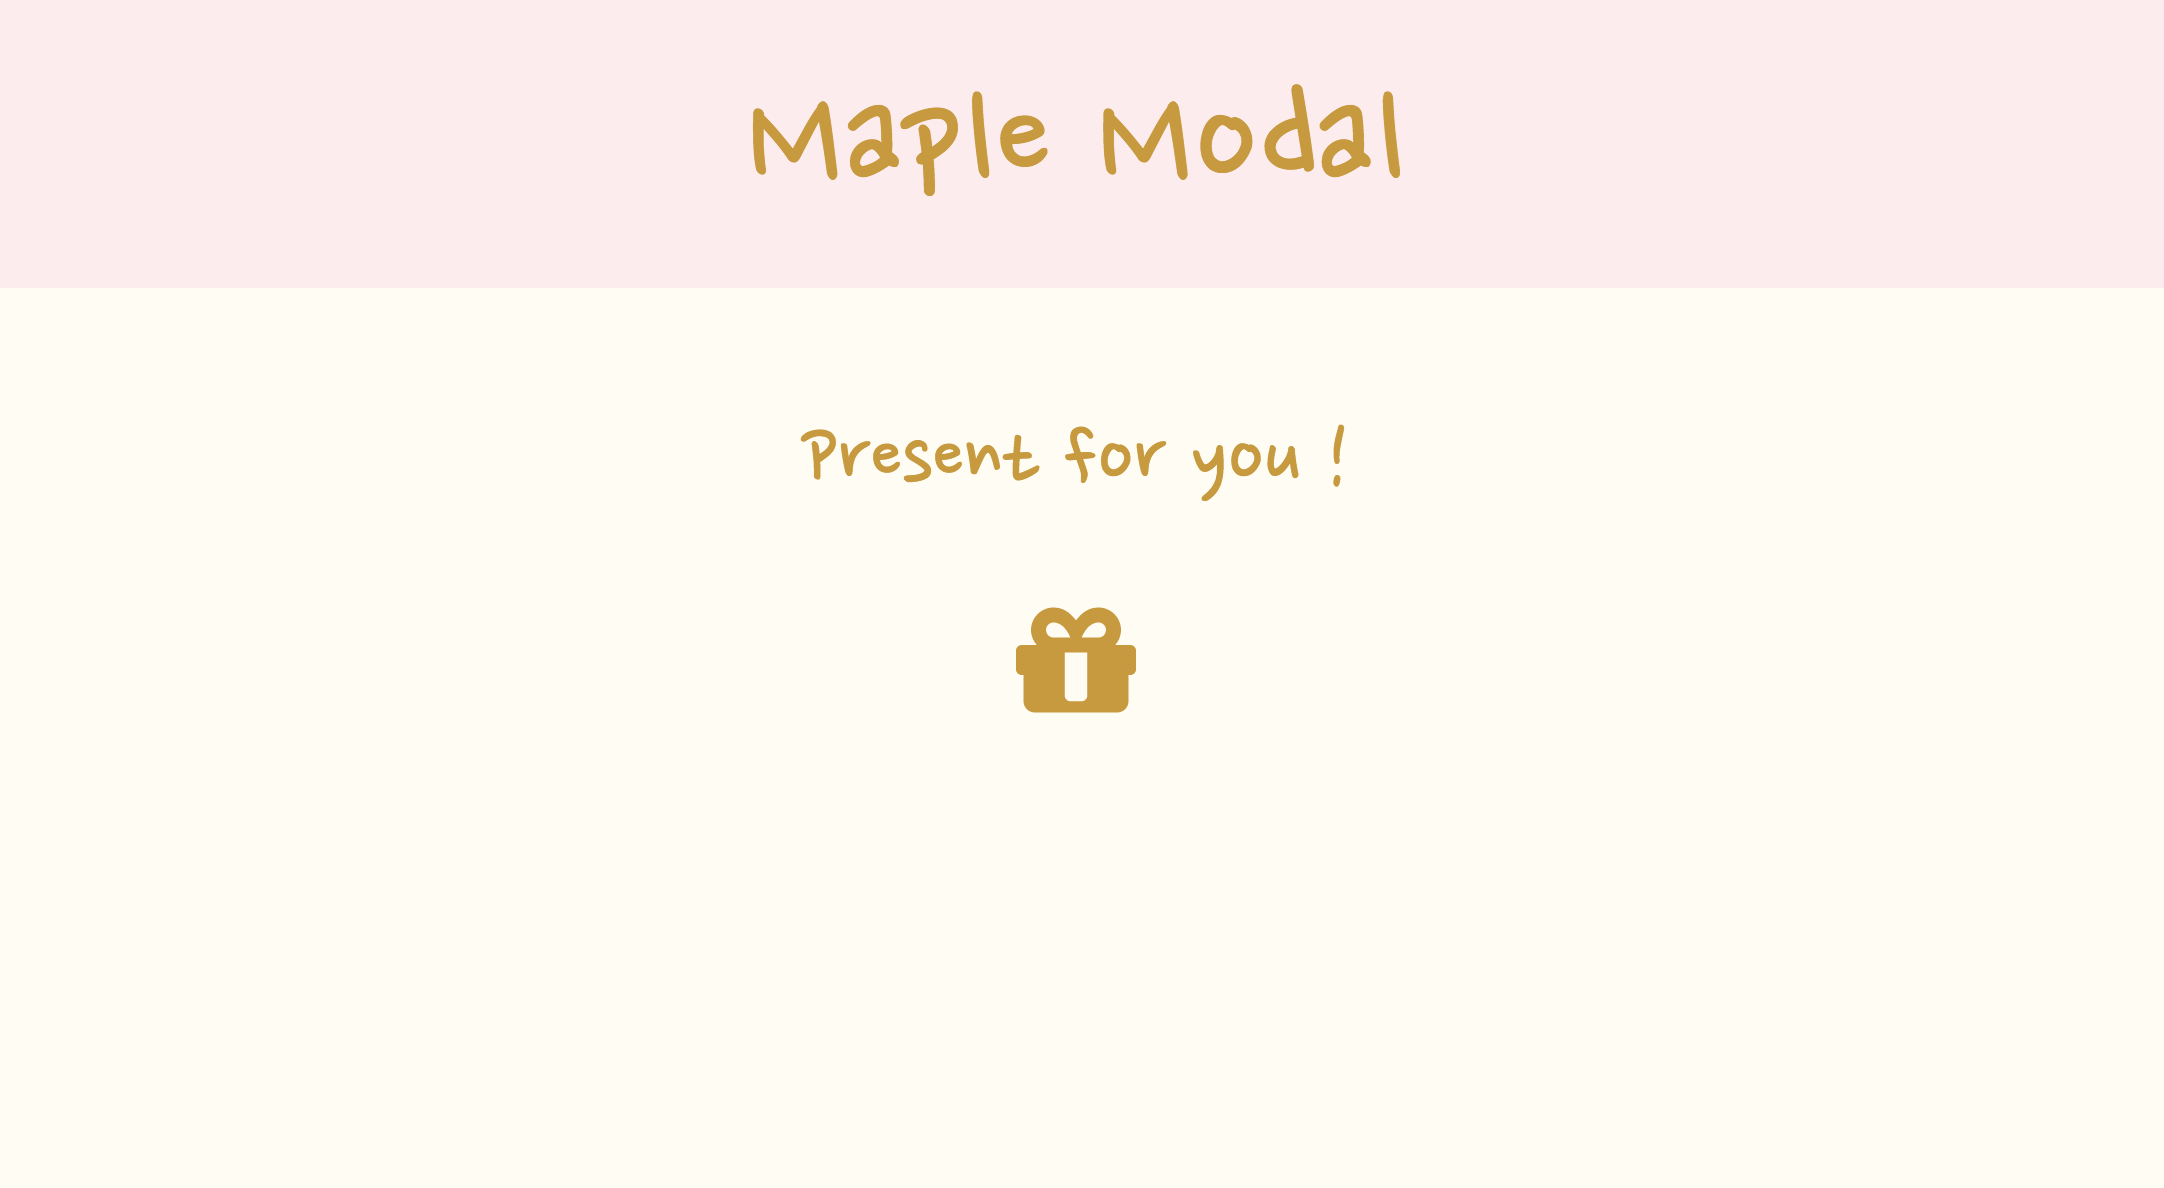
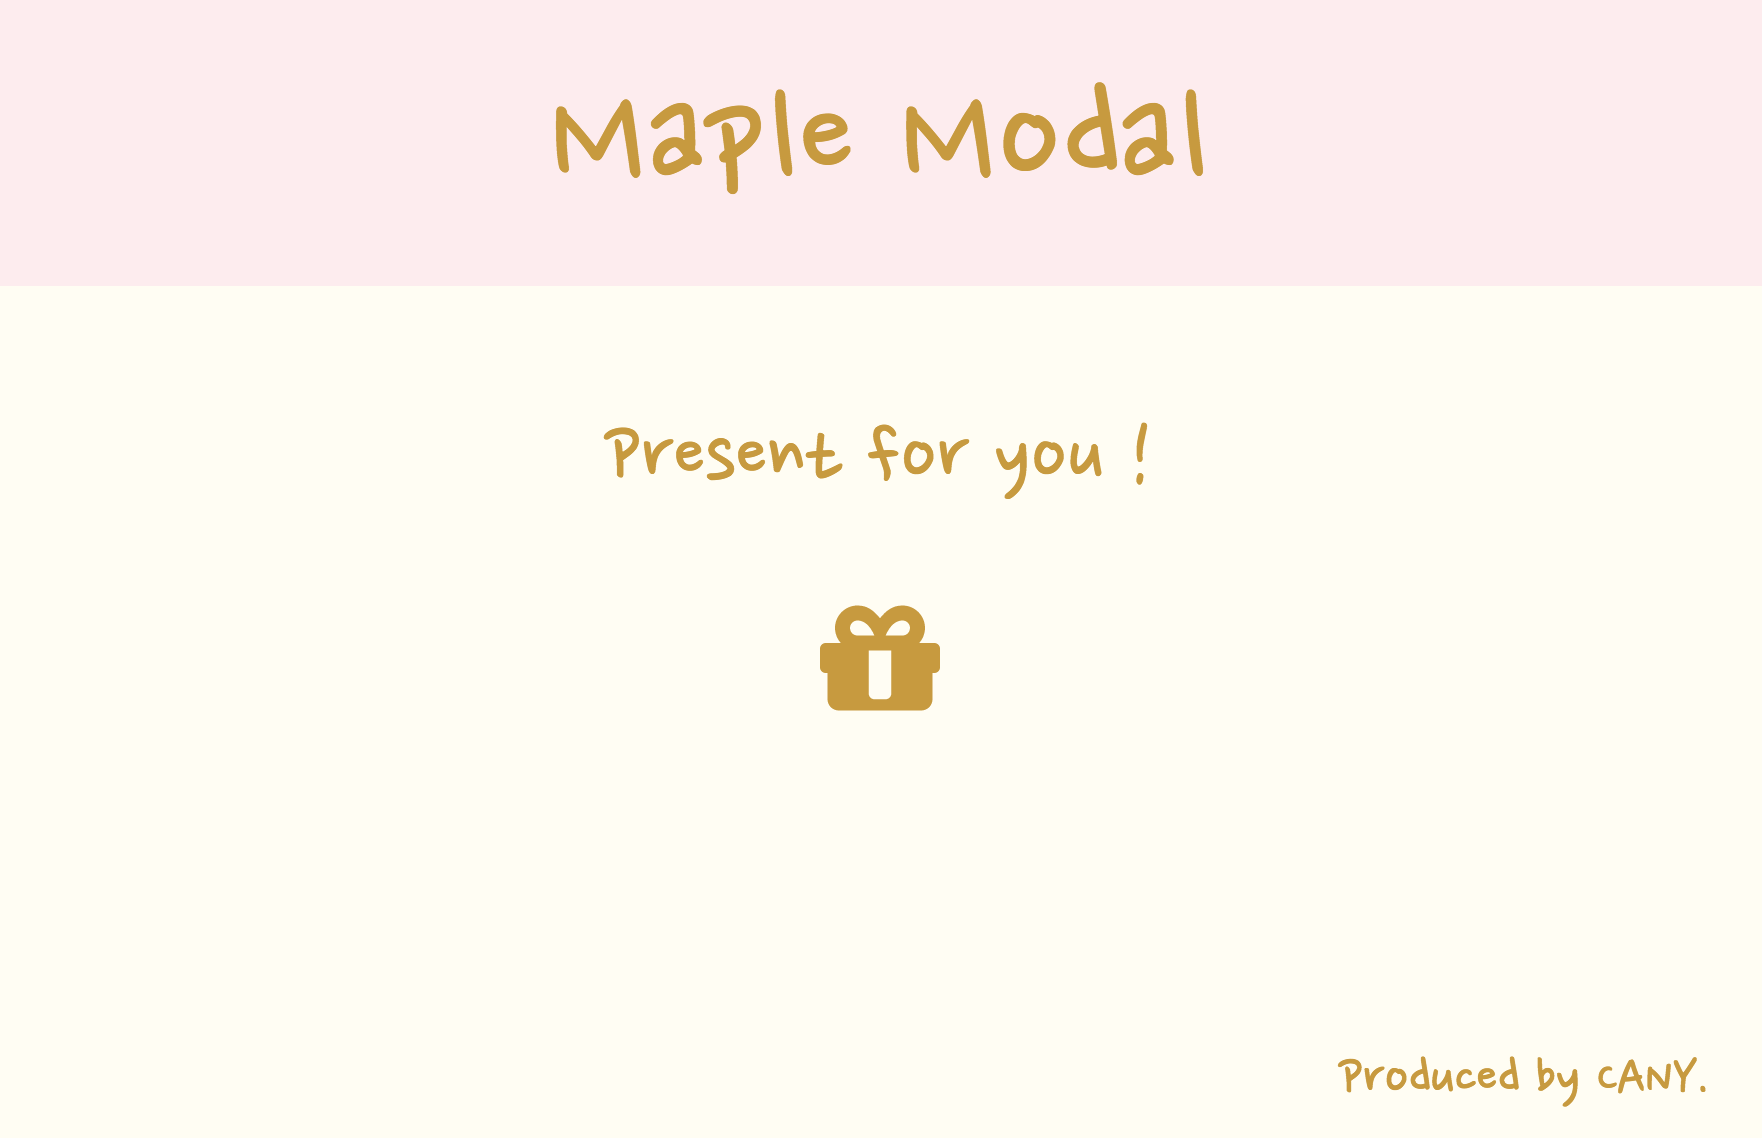
コメント追加

diff --git a/works/MapleLab/demos/Modal/style.css b/works/MapleLab/demos/Modal/style.css
@@ -139,8 +139,9 @@ body.is-locked {
 /*---/header----*/
 
 .present {
-	height: 400px;
-	padding: 50px 0;
+	position: relative;
+	height: 350px;
+	padding: 50px;
 	background-color: #fffdf2;
 	font-size: 30px;
 	color: #c89b35;
@@ -150,6 +151,12 @@ body.is-locked {
 	margin-top: 20px;
 	font-size: 60px;
 	cursor: pointer;
+}
+
+.comment {
+	position: absolute;
+	bottom: 30px;
+	right: 30px;
 }
 
 /*---/main---*/

diff --git a/works/MapleLab/demos/Modal/index.html b/works/MapleLab/demos/Modal/index.html
@@ -32,6 +32,8 @@
 		<section class="present">
 			<h2>Present for you	!</h2>
 			<div class="present-open btn" id="open-modal"><i class="fas fa-gift"></i></div>
+
+			<p class="comment">Produced by CANY.</p>
 		</section>
 	</main>
 
